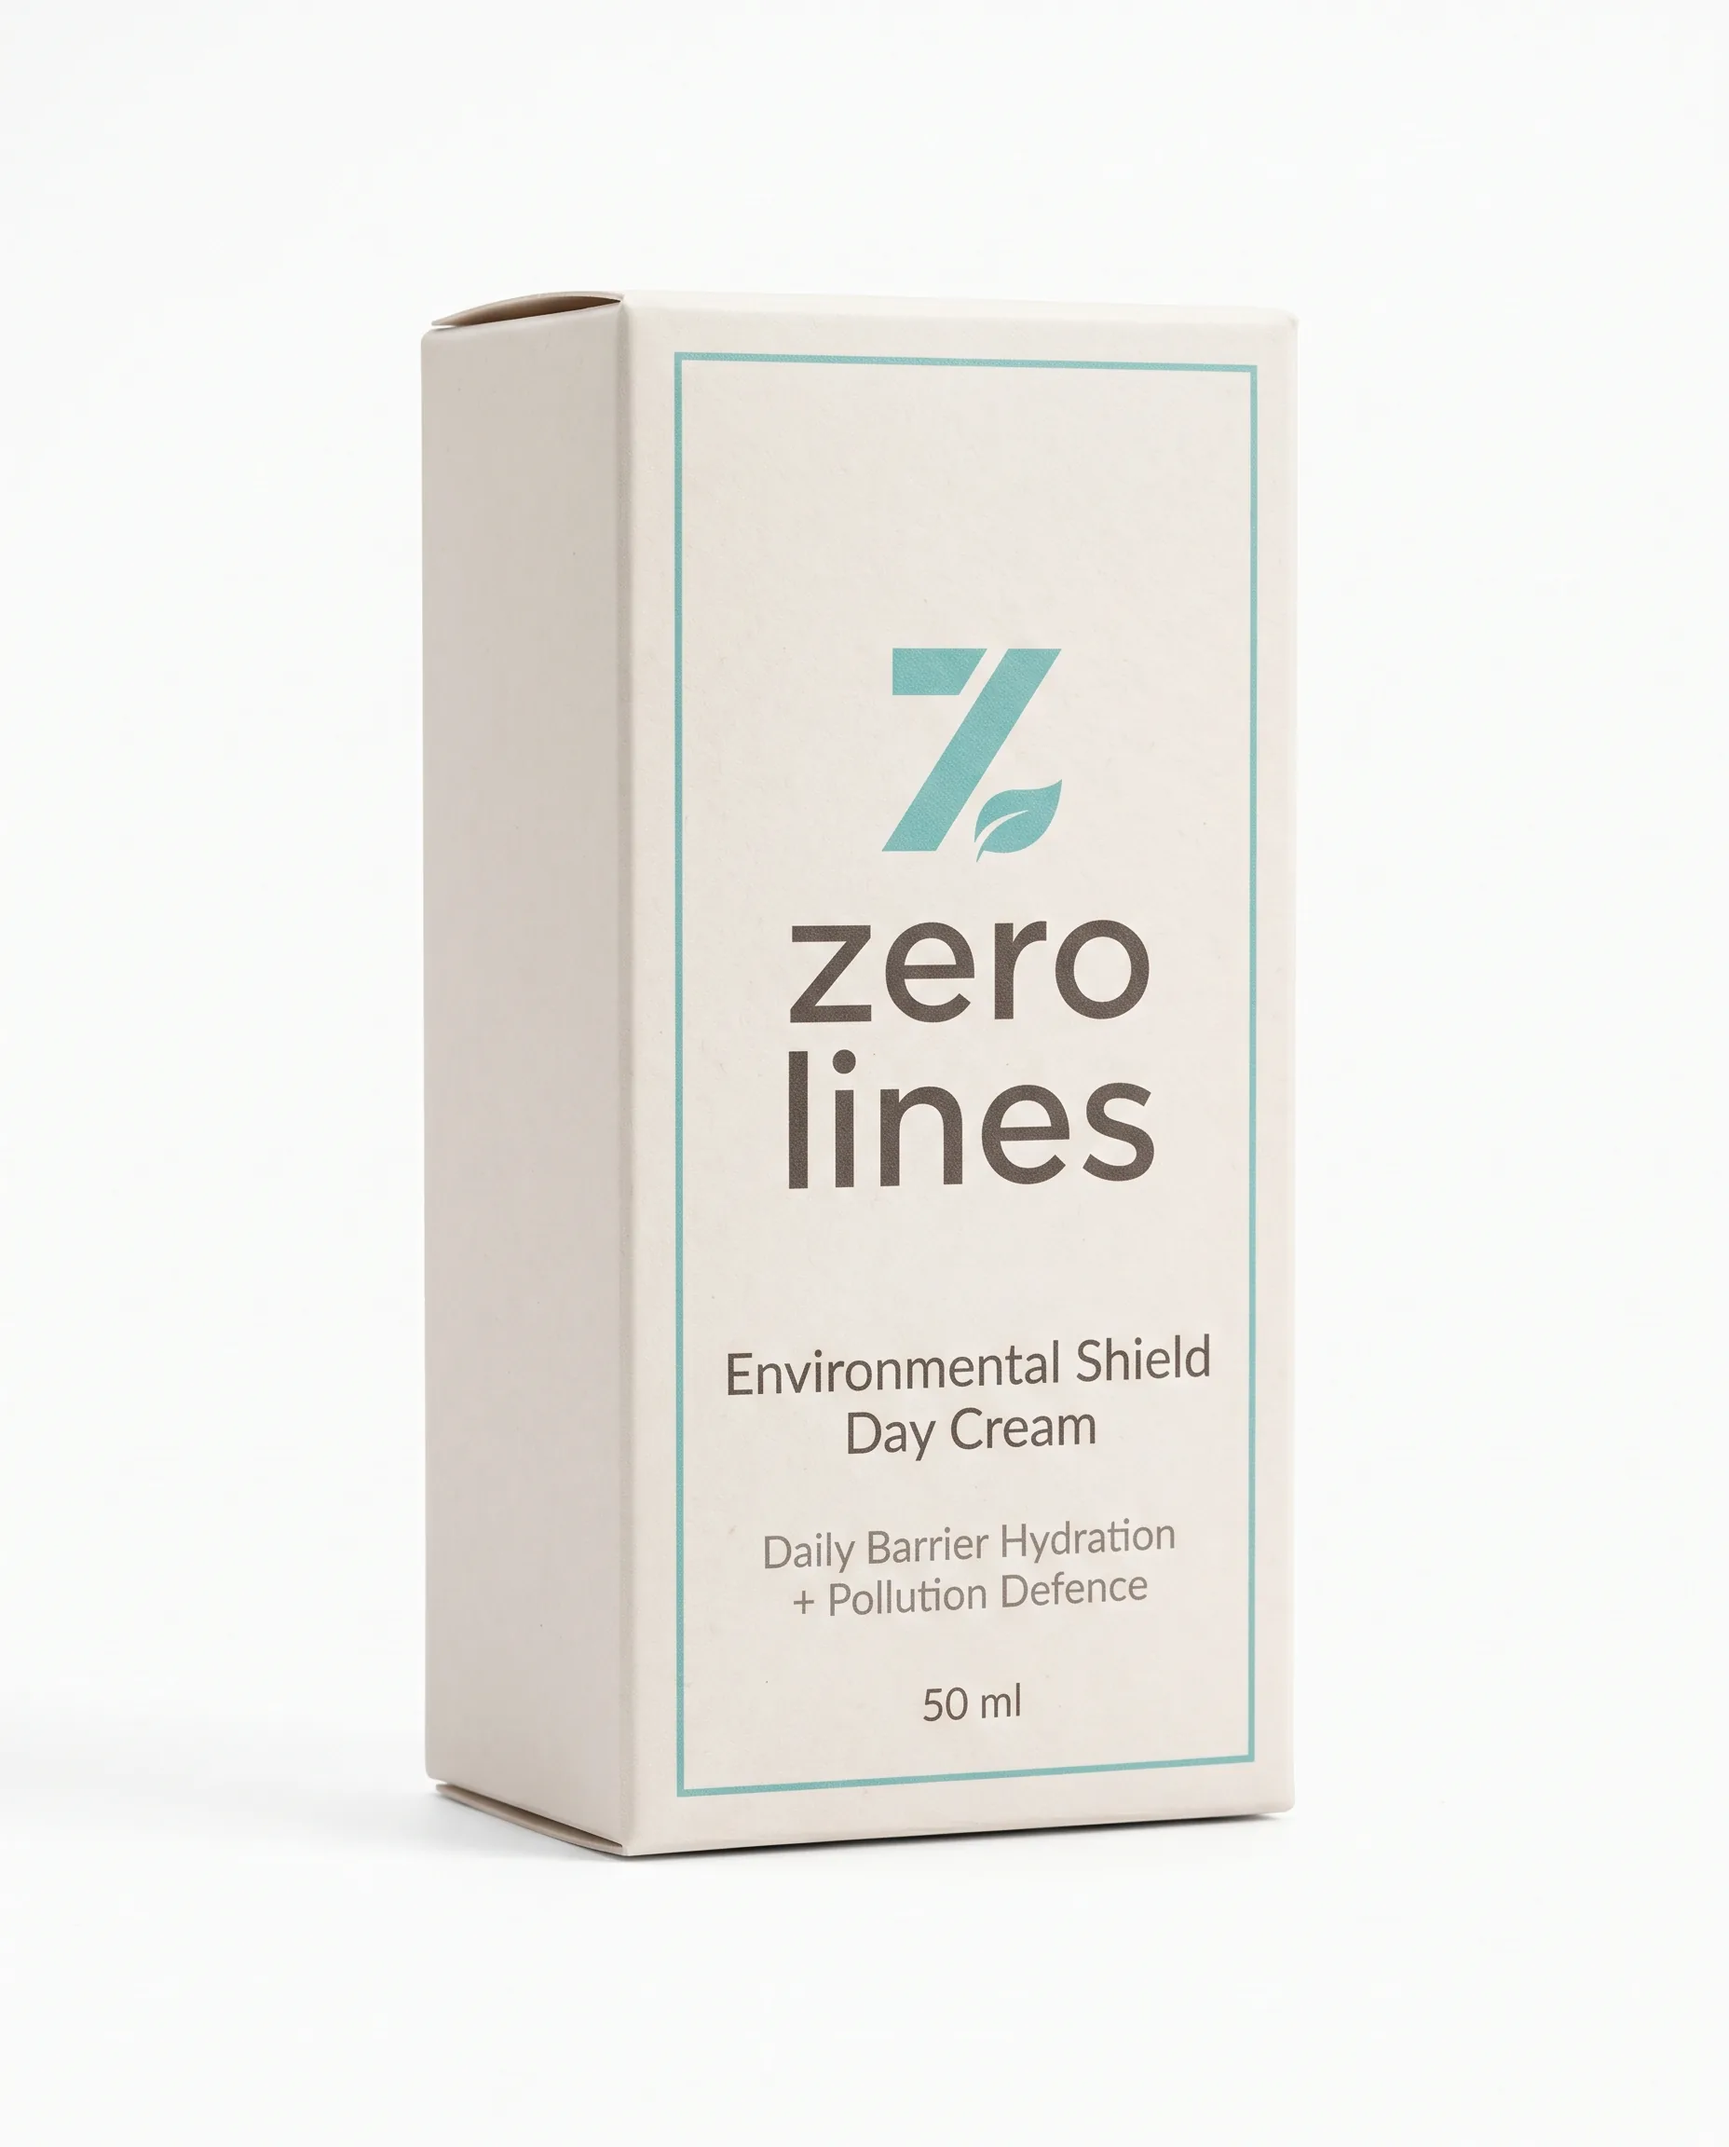
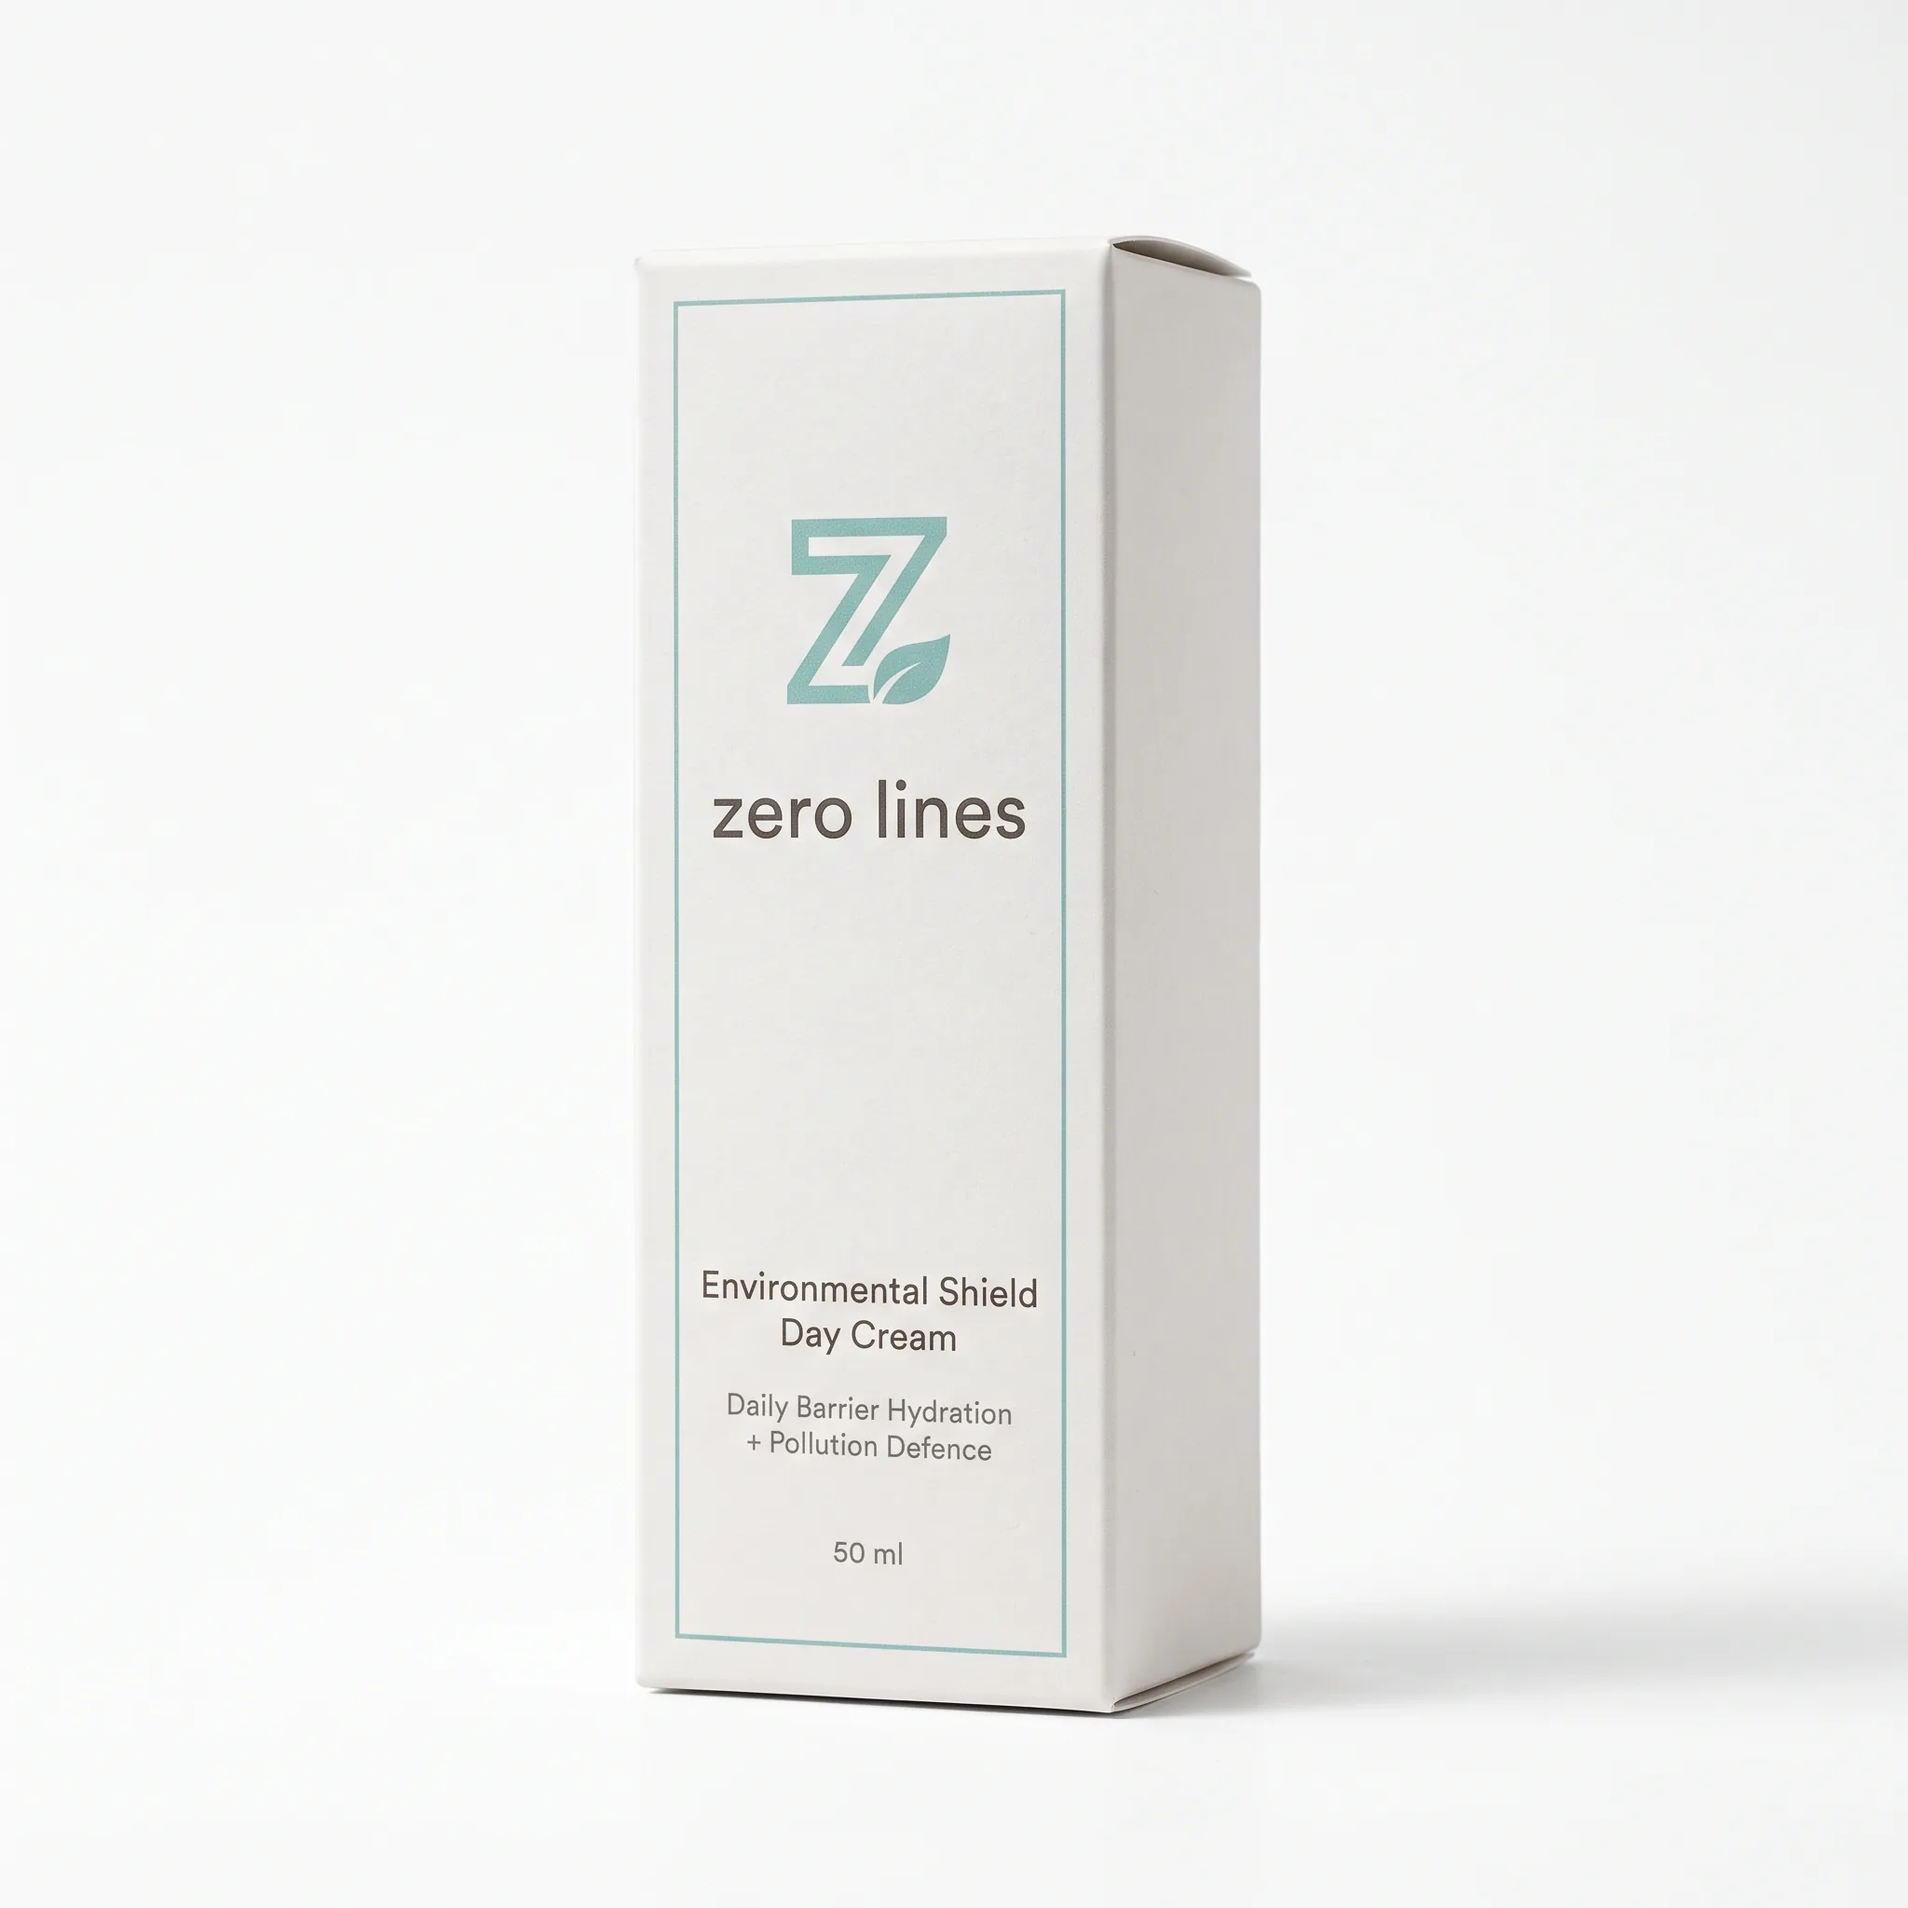
fix: rebuild day-cream carton to match the set, drop an unsupportable claim
box-day-cream was the one carton that broke the family — a two-line stacked
wordmark at roughly double the size of the other five, warm cream board where
the rest are cool white, and the three-quarter view mirrored. Regenerated to
the pack spec; all six now read as one line.

The syringe page carried 'Transformative results' in an h2 and in both social
descriptions. It is an efficacy claim this brand cannot support — no completed
study, no panel, no product yet — and it did not even match its own section,
whose prose is entirely about restraint and precise placement. Now 'Targeted
intervention. Deliberate restraint.'

Adds .claude/claimcheck.js so this cannot come back quietly. The lesson from
'Transformative results' is that the dangerous claim is the one that reads like
ordinary marketing, so the linter separates claims that are never acceptable in
the brand's voice from ones that are fine in editorial about the category but
not in a headline or a meta description. It understands that this site
under-claims on purpose — 'No single morning is dramatic', 'We do not claim to
erase time', an article titled 'Myth or Miracle?' — and excuses negations and
rhetorical headlines, because a linter with nine false positives is a linter
nobody runs. Currently clean, and verified to still catch an injected
'clinically proven'.

Changed region(s): [[0.2188, 0.125, 1.0, 0.9062]]

diff --git a/.claude/claimcheck.js b/.claude/claimcheck.js
@@ -1,0 +1,163 @@
+/* Cosmetic-claim linter for the live copy.
+ *
+ * Zero Lines sells appearance, not treatment. Under EU/UK Reg. 655/2013 a
+ * cosmetic claim has to be supportable, and this brand has no completed study,
+ * no panel and no product in existence yet — so any efficacy claim on a product
+ * page is unsupportable by definition, however good it sounds.
+ *
+ * The failure this catches is not someone writing "clinically proven" on
+ * purpose. It is a headline like "Transformative results", which reads as
+ * ordinary marketing, sat in an h2 on the flagship product page, and survived a
+ * full rewrite because nobody was looking for it.
+ *
+ * Two lists. HARD is never acceptable in the brand's own voice. SOFT is
+ * acceptable in editorial about the wider category — an article explaining that
+ * retinoids are among the most proven anti-ageing ingredients is a statement
+ * about retinoids, not a Zero Lines claim — but is a failure inside a product
+ * page, a hero, or a meta description, where the voice is the brand's own.
+ *
+ * Usage: node .claude/claimcheck.js [--json]
+ * Exits non-zero if any HARD hit, or any SOFT hit in brand voice.
+ */
+const fs = require('fs');
+const path = require('path');
+const ROOT = path.resolve(__dirname, '..');
+
+const HARD = [
+  [/\bclinically\s+(proven|tested|validated)\b/i, 'clinical substantiation claim'],
+  [/\bdermatologist[-\s]?(approved|tested|recommended)\b/i, 'professional endorsement claim'],
+  [/\b(eliminates?|erases?|removes?)\s+(the\s+|your\s+)?(wrinkles?|lines?|ageing|aging)\b/i, 'removal-of-wrinkles claim'],
+  // "treats" only in its medicinal sense — against a named condition. The verb
+  // also means "regards", and the site uses it that way on purpose ("we treat
+  // skin as a living system"), so a bare "treats skin" must not fire.
+  [/\b(cures?|heals?|treats?)\s+(the\s+|your\s+)?(acne|eczema|rosacea|psoriasis|dermatitis|inflammation|a\s+condition)\b/i, 'medicinal claim'],
+  [/\bpermanent(ly)?\s+(results?|smooth|younger|reduction|change\s+to\s+(the\s+)?skin)/i, 'permanence claim'],
+  [/\b\d{1,3}\s?%\s*(of\s+)?(users|women|participants|reduction|improvement|smoother|firmer)/i, 'efficacy percentage'],
+  [/\breverses?\s+(ageing|aging|time|the\s+clock)\b/i, 'reversal claim'],
+  [/\banti[-\s]?wrinkle\b/i, 'wrinkle-treatment claim'],
+  [/\bbotox[-\s]?(like|alternative|in\s+a)\b/i, 'comparison to a prescription medicine'],
+  [/\bfiller[-\s]?(like|alternative)\b/i, 'comparison to a medical device'],
+];
+
+// Acceptable when the site is explaining the category; not acceptable in the
+// brand's own promotional voice.
+const SOFT = [
+  [/\btransformative\b/i, 'unsupportable efficacy adjective'],
+  [/\bproven\b/i, 'substantiation claim'],
+  [/\bguarantee[sd]?\b/i, 'guarantee'],
+  [/\bmiracle\b/i, 'miracle claim'],
+  [/\bdramatic(ally)?\b/i, 'overstated magnitude'],
+  [/\bmedical[-\s]?grade\b/i, 'implies regulated status'],
+];
+
+/* The site under-claims on purpose — "No single morning is dramatic", "We do not
+ * claim to erase time", "not a miracle cure" — and an article is titled
+ * "Hydrolysed Collagen: Myth or Miracle?", which poses the question in order to
+ * answer no. Every one of those is the copy doing exactly the right thing, so a
+ * linter that flags them is a linter nobody runs. Look back a short window for a
+ * negation, and forward for the question mark that makes a headline a question.
+ */
+const NEGATED = /\b(no|not|nothing|never|n[o']t|without|hardly|rarely|isn|aren|doesn|don|won|cannot|can)\b[^.;:!?]{0,44}$/i;
+const RHETORICAL = /^[^.;!?]{0,30}\?/;
+
+function excused(body, start, end) {
+  const before = body.slice(Math.max(0, start - 90), start);
+  if (NEGATED.test(before)) return 'negated';
+  if (RHETORICAL.test(body.slice(end, end + 34))) return 'rhetorical question';
+  // "myth or miracle" / "miracle or myth" is the title of a debunking article.
+  const around = body.slice(Math.max(0, start - 24), end + 24).toLowerCase();
+  if (/\bmyth\b[\s\S]{0,12}\bmiracle\b|\bmiracle\b[\s\S]{0,12}\bmyth\b/.test(around)) return 'debunking headline';
+  return null;
+}
+
+// Where the brand speaks in its own promotional voice. A SOFT hit here fails.
+const BRAND_VOICE = [
+  /<h[12]\b[^>]*>[\s\S]*?<\/h[12]>/gi,
+  /<meta\s+[^>]*(?:name|property)=["'](?:description|og:description|og:title|twitter:description|twitter:title)["'][^>]*>/gi,
+  /<title\b[^>]*>[\s\S]*?<\/title>/gi,
+  /<[^>]*class=["'][^"']*zl-(?:hero|eyebrow|display|lede)[^"']*["'][^>]*>[\s\S]{0,400}?<\//gi,
+];
+
+const SKIP_DIRS = ['.git', 'node_modules', '.venv', '.netlify', '.claude', '_do-not-use'];
+// terms.html and privacy.html must be able to say "not intended to cure".
+const SKIP_FILES = ['terms.html', 'privacy.html', 'cookies.html'];
+
+function walk(dir, out = []) {
+  for (const e of fs.readdirSync(dir, { withFileTypes: true })) {
+    if (SKIP_DIRS.includes(e.name)) continue;
+    const p = path.join(dir, e.name);
+    if (e.isDirectory()) walk(p, out);
+    else if (e.name.endsWith('.html') && !SKIP_FILES.includes(e.name)) out.push(p);
+  }
+  return out;
+}
+
+const strip = (s) => s.replace(/<(script|style)\b[\s\S]*?<\/\1>/gi, '');
+const text = (s) => s.replace(/<[^>]+>/g, ' ').replace(/&[a-z]+;/gi, ' ').replace(/\s+/g, ' ');
+const lineOf = (s, i) => s.slice(0, i).split('\n').length;
+
+const hits = [];
+
+for (const file of walk(ROOT)) {
+  const raw = strip(fs.readFileSync(file, 'utf8'));
+  const rel = path.relative(ROOT, file);
+  const isProduct = rel.startsWith('products/') || rel === 'index.html';
+
+  const body = text(raw);
+  for (const [re, why] of HARD) {
+    const g = new RegExp(re.source, re.flags.includes('g') ? re.flags : re.flags + 'g');
+    let m;
+    while ((m = g.exec(body)) !== null) {
+      if (excused(body, m.index, m.index + m[0].length)) continue;
+      hits.push({ file: rel, severity: 'hard', why, match: m[0].trim(), where: 'anywhere' });
+      break;
+    }
+  }
+
+  // Collect the brand-voice regions once, with their offsets, so a SOFT hit can
+  // be attributed to a line rather than just to a file.
+  const regions = [];
+  for (const re of BRAND_VOICE) {
+    re.lastIndex = 0;
+    let m;
+    while ((m = re.exec(raw)) !== null) regions.push({ s: m.index, t: text(m[0]) });
+  }
+
+  for (const [re, why] of SOFT) {
+    let flagged = false;
+    for (const r of regions) {
+      const m = r.t.match(re);
+      if (!m || excused(r.t, m.index, m.index + m[0].length)) continue;
+      hits.push({
+        file: rel, severity: 'soft', why, match: m[0].trim(),
+        where: 'brand voice', line: lineOf(raw, r.s),
+      });
+      flagged = true;
+      break;
+    }
+    // A soft claim in body copy on a product page is still the brand's voice.
+    if (!flagged && isProduct) {
+      const g = new RegExp(re.source, 'gi');
+      let m;
+      while ((m = g.exec(body)) !== null) {
+        if (excused(body, m.index, m.index + m[0].length)) continue;
+        hits.push({ file: rel, severity: 'soft', why, match: m[0].trim(), where: 'product page copy' });
+        break;
+      }
+    }
+  }
+}
+
+if (process.argv.includes('--json')) {
+  console.log(JSON.stringify(hits, null, 1));
+} else if (!hits.length) {
+  console.log('claimcheck: clean — no unsupportable claims in brand voice');
+} else {
+  for (const h of hits) {
+    const at = h.line ? `:${h.line}` : '';
+    console.log(`${h.severity.toUpperCase().padEnd(4)} ${h.file}${at}  "${h.match}"  — ${h.why} (${h.where})`);
+  }
+  console.log(`\n${hits.length} to review.`);
+}
+
+process.exit(hits.length ? 1 : 0);

diff --git a/products/syringe/index.html b/products/syringe/index.html
@@ -11,14 +11,14 @@
 <meta property="og:type" content="website">
 <meta property="og:site_name" content="Zero Lines">
 <meta property="og:title" content="Precision Collagen Activation Syringe — Zero Lines">
-<meta property="og:description" content="Targeted intervention. Transformative results. Two effects from one dose — the key product of the Zero Lines Longevity Protocol.">
+<meta property="og:description" content="Targeted intervention, deliberate restraint. Two effects from one dose — the key product of the Zero Lines Longevity Protocol.">
 <meta property="og:url" content="https://zerolines.life/products/syringe/">
 <meta property="og:image" content="https://zerolines.life/assets/og/product-syringe.jpg">
 <meta property="og:image:width" content="1248">
 <meta property="og:image:height" content="832">
 <meta name="twitter:card" content="summary_large_image">
 <meta name="twitter:title" content="Precision Collagen Activation Syringe — Zero Lines">
-<meta name="twitter:description" content="Targeted intervention. Transformative results. Two effects from one dose.">
+<meta name="twitter:description" content="Targeted intervention, deliberate restraint. Two effects from one dose.">
 <meta name="twitter:image" content="https://zerolines.life/assets/og/product-syringe.jpg">
 
 <link rel="icon" href="/assets/logo-mark.png">
@@ -638,7 +638,7 @@
         <span class="zl-eyebrow" data-reveal>The Instrument</span>
         <h2 class="zl-display-m" style="margin-top:1.25rem">
           <span class="zl-rise"><span>Targeted intervention.</span></span>
-          <span class="zl-rise" style="--reveal-delay:150ms"><span><em class="zl-em--brand">Transformative</em> results.</span></span>
+          <span class="zl-rise" style="--reveal-delay:150ms"><span><em class="zl-em--brand">Deliberate</em> restraint.</span></span>
         </h2>
       </div>
       <div class="zl-prose" data-reveal style="--reveal-delay:220ms">
